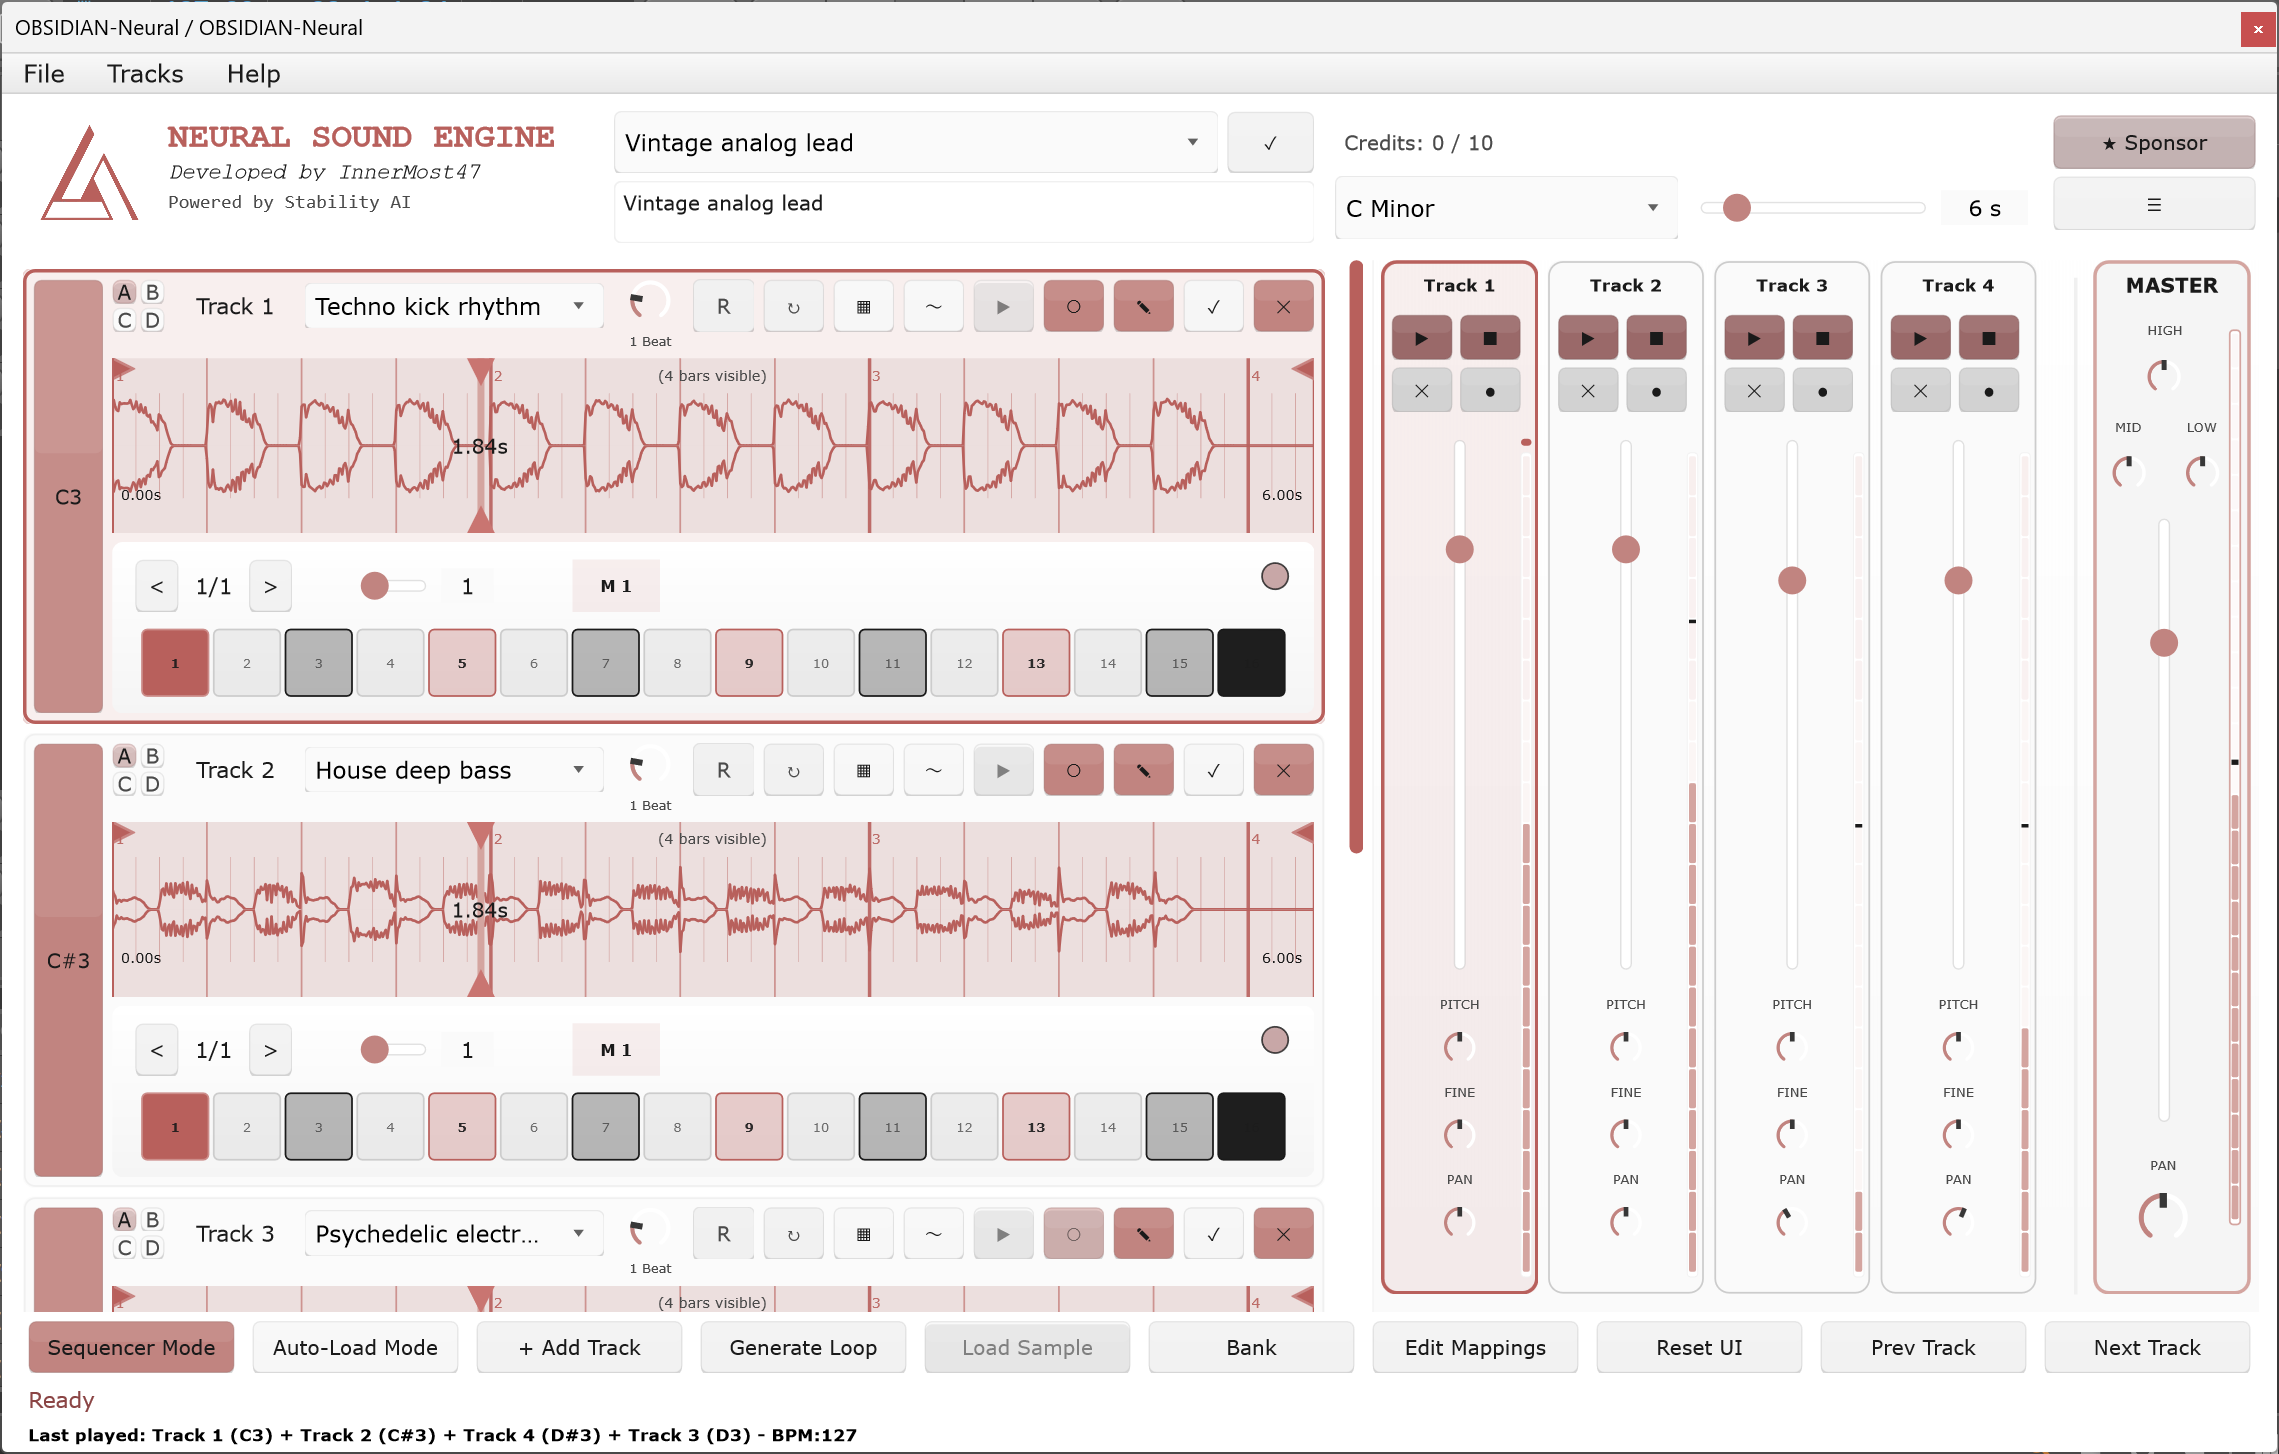
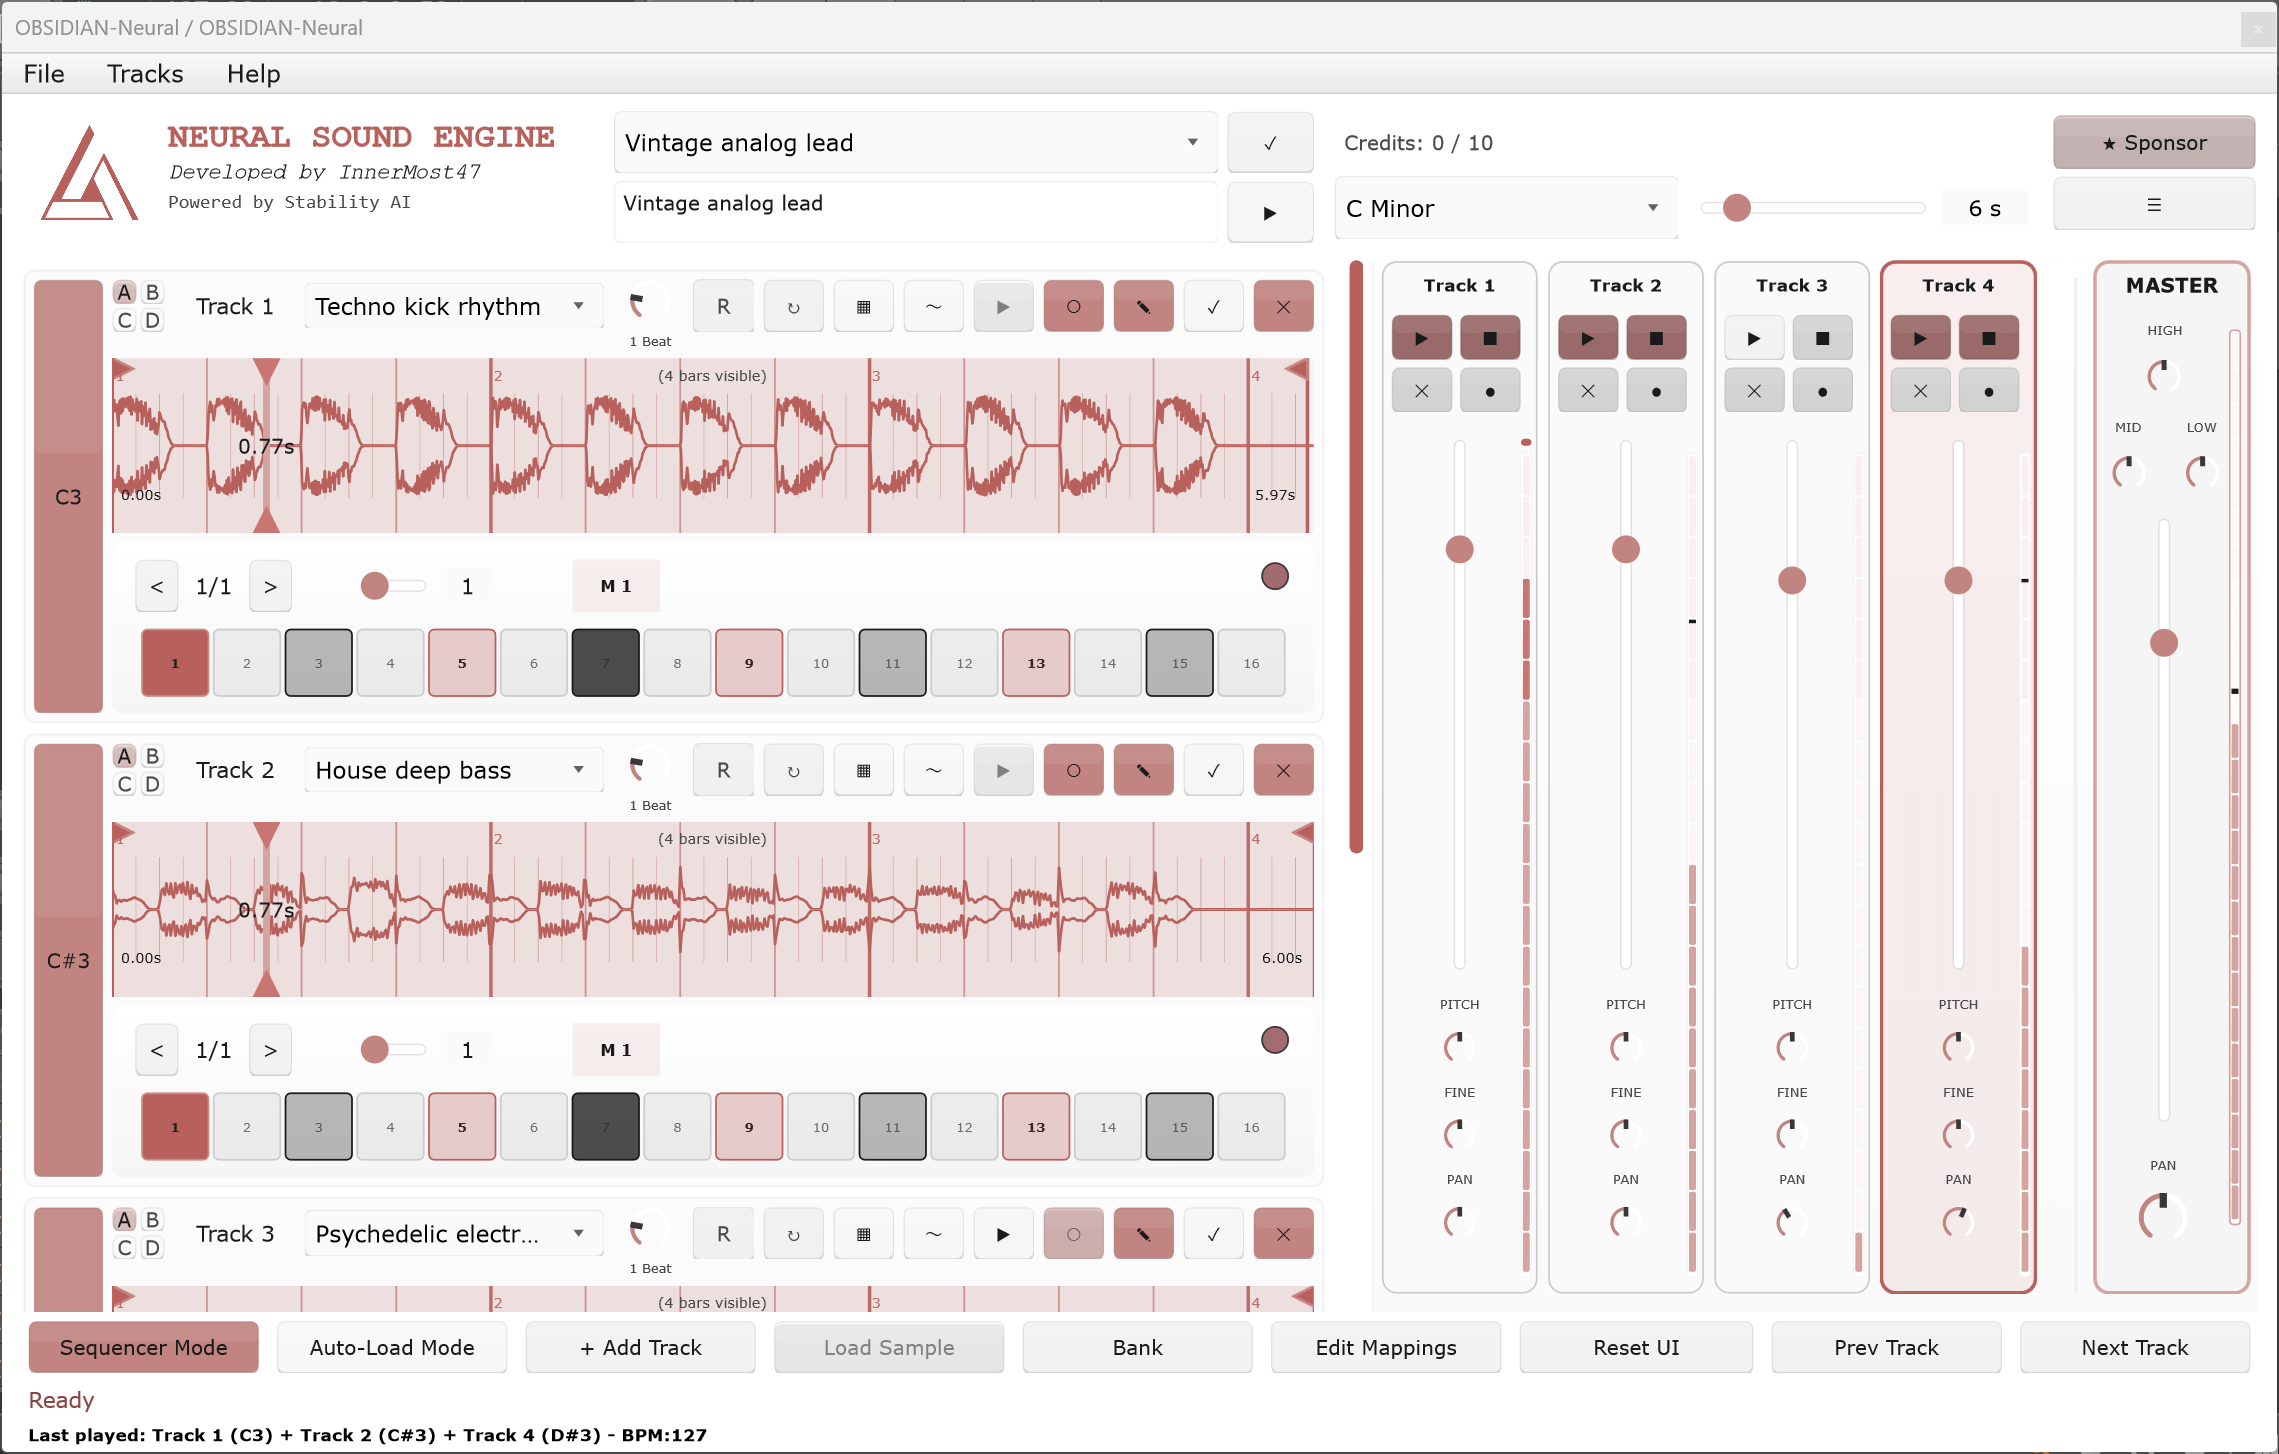
generate btn is next to prompt input

diff --git a/vst/src/PluginEditor.cpp b/vst/src/PluginEditor.cpp
@@ -534,10 +534,10 @@ void DjIaVstEditor::timerCallback()
 			if (blinkCounter % 3 == 0)
 			{
 				auto currentColor = generateButton.findColour(juce::TextButton::buttonColourId);
-				bool isWarning = (currentColor == ColourPalette::buttonWarning);
+				bool isWarning = (currentColor == ColourPalette::buttonPrimary);
 
 				generateButton.setColour(juce::TextButton::buttonColourId,
-					isWarning ? ColourPalette::buttonSuccess : ColourPalette::buttonWarning);
+					isWarning ? ColourPalette::buttonSuccess : ColourPalette::buttonPrimary);
 			}
 		}
 	}
@@ -547,9 +547,7 @@ void DjIaVstEditor::startGenerationButtonAnimation()
 {
 	if (!isButtonBlinking)
 	{
-		originalButtonText = generateButton.getButtonText();
 		generateButton.setEnabled(false);
-		generateButton.setButtonText("Generating Track...");
 		generateButton.setColour(juce::TextButton::buttonColourId, ColourPalette::buttonWarning);
 		isButtonBlinking = true;
 		blinkCounter = 0;
@@ -561,7 +559,6 @@ void DjIaVstEditor::stopGenerationButtonAnimation()
 	if (isButtonBlinking)
 	{
 		generateButton.setEnabled(true);
-		generateButton.setButtonText(originalButtonText);
 		generateButton.setColour(juce::TextButton::buttonColourId, ColourPalette::buttonSuccess);
 		isButtonBlinking = false;
 		generatingTrackId.clear();
@@ -743,7 +740,7 @@ void DjIaVstEditor::setupUI()
 	durationLabel.setText("Duration", juce::dontSendNotification);
 
 	addAndMakeVisible(generateButton);
-	generateButton.setButtonText("Generate Loop");
+	generateButton.setButtonText(juce::String::fromUTF8("\xE2\x96\xB6"));
 
 	addAndMakeVisible(configButton);
 	configButton.setButtonText(juce::String::fromUTF8("\xE2\x98\xB0"));
@@ -1245,9 +1242,14 @@ void DjIaVstEditor::layoutPromptSection(juce::Rectangle<int> area, int spacing)
 	promptPresetSelector.setBounds(row1.removeFromLeft(area.getWidth() - saveButtonWidth - spacing));
 	row1.removeFromLeft(spacing);
 	savePresetButton.setBounds(row1.removeFromLeft(saveButtonWidth));
+
 	area.removeFromTop(spacing);
+
 	auto row2 = area.removeFromTop(35);
-	promptInput.setBounds(row2.removeFromLeft(area.getWidth()));
+	int generateButtonWidth = 50;
+	promptInput.setBounds(row2.removeFromLeft(row2.getWidth() - generateButtonWidth - spacing));
+	row2.removeFromLeft(spacing);
+	generateButton.setBounds(row2);
 }
 
 void DjIaVstEditor::layoutConfigSection(juce::Rectangle<int> area, int reducing)
@@ -1329,11 +1331,10 @@ void DjIaVstEditor::resized()
 	}
 
 	auto buttonsRow = area.removeFromTop(40);
-	auto buttonWidth = buttonsRow.getWidth() / 10;
+	auto buttonWidth = buttonsRow.getWidth() / 9;
 	bypassSequencerButton.setBounds(buttonsRow.removeFromLeft(buttonWidth).reduced(5));
 	autoLoadButton.setBounds(buttonsRow.removeFromLeft(buttonWidth).reduced(5));
 	addTrackButton.setBounds(buttonsRow.removeFromLeft(buttonWidth).reduced(5));
-	generateButton.setBounds(buttonsRow.removeFromLeft(buttonWidth).reduced(5));
 	loadSampleButton.setBounds(buttonsRow.removeFromLeft(buttonWidth).reduced(5));
 	showSampleBankButton.setBounds(buttonsRow.removeFromLeft(buttonWidth).reduced(5));
 	openMidiEditorButton.setBounds(buttonsRow.removeFromLeft(buttonWidth).reduced(5));
